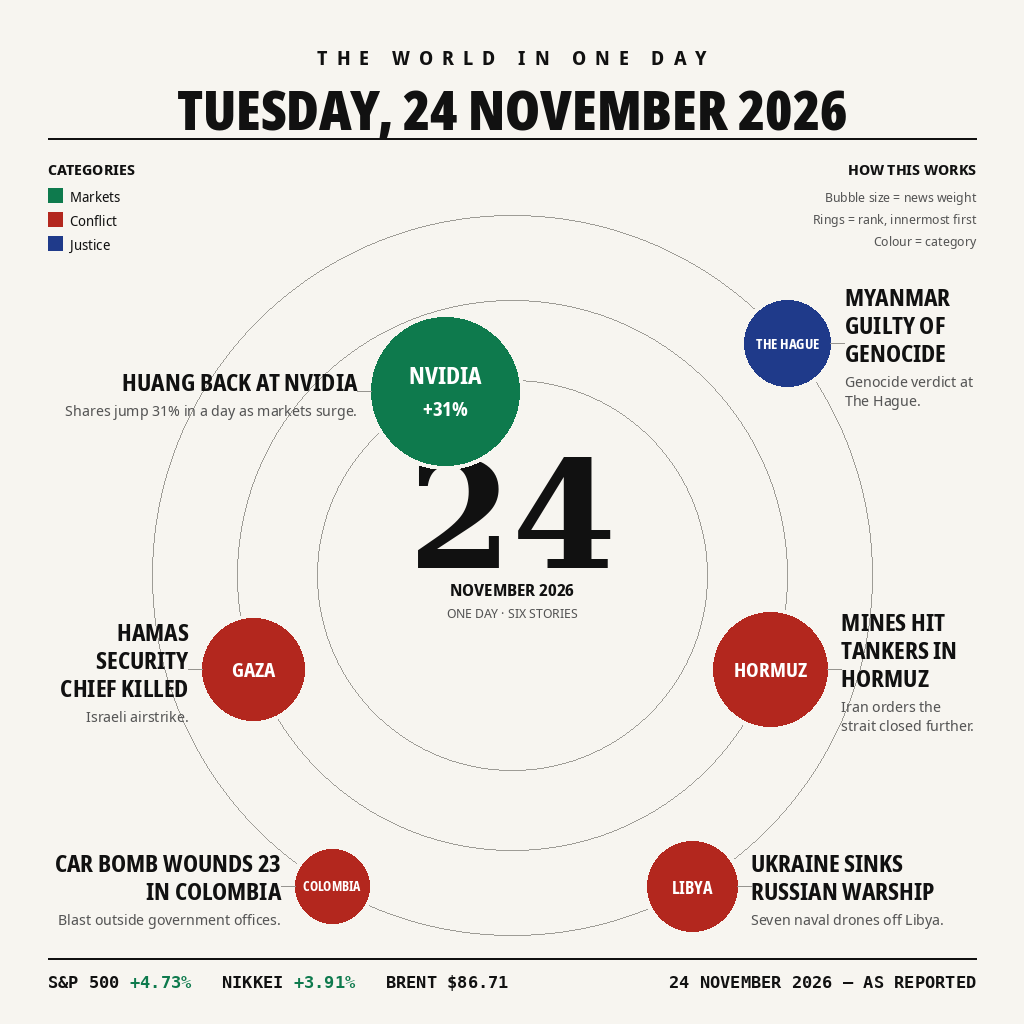
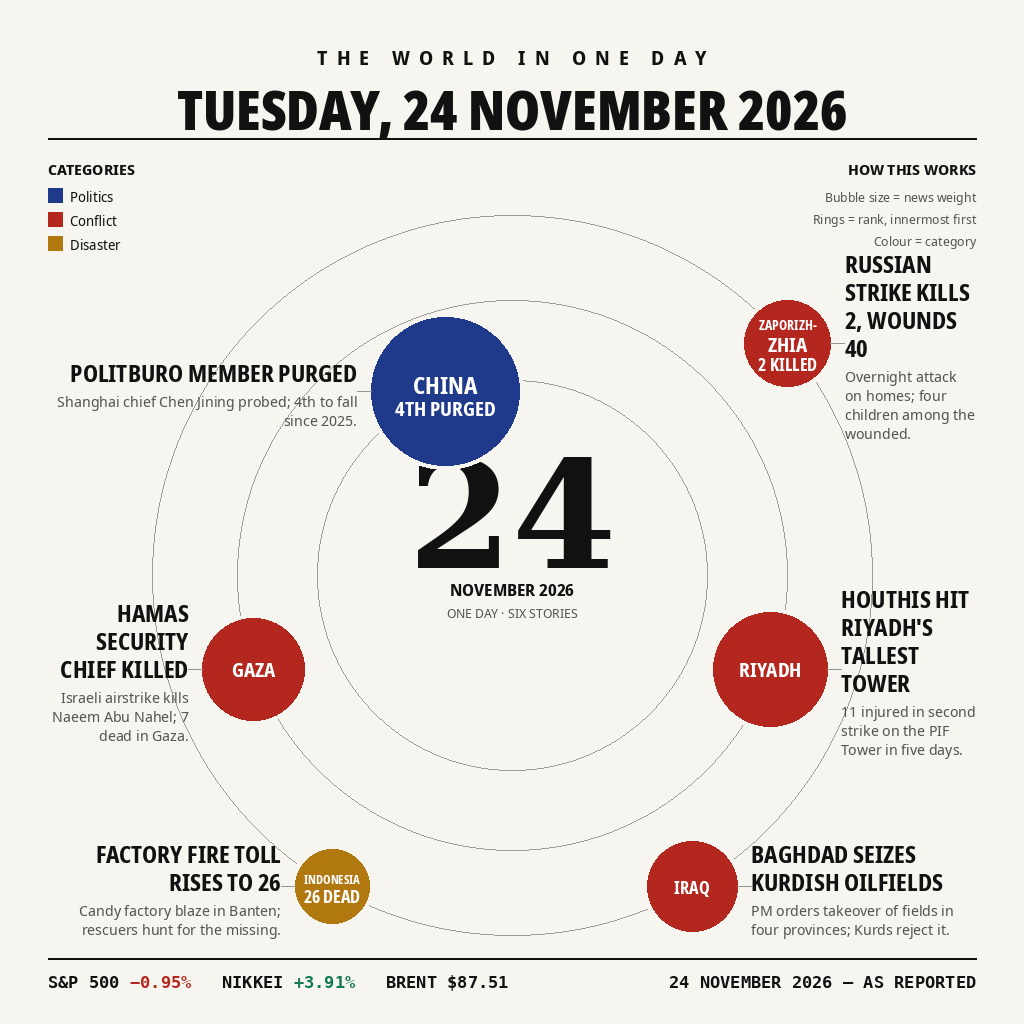
Replace entry.png and main.ts with corrected versions

diff --git a/main.ts b/main.ts
@@ -1,15 +1,17 @@
 // News-image entry for Tuesday 24 November 2026 (Node 22, standard library only).
 // The image beside this file is the entry: a front page summing up the day's world
-// news - Nvidia reinstates Huang as CEO (+31%), tankers hit mines in Hormuz, a
-// Hamas security chief killed in Gaza, Ukraine sinks a Russian corvette off Libya,
-// the ICJ finds Myanmar guilty of genocide, a factory fire kills 26 in Banten,
-// a car bomb wounds 23 in Colombia - with a markets strip below.
+// news - a Politburo member purged in China, Houthis hit Riyadh's tallest tower,
+// a Hamas security chief killed in Gaza, Baghdad seizes Kurdish oilfields,
+// a factory fire toll rises to 26 in Banten, a Russian strike kills 2 in
+// Zaporizhzhia - with a markets strip below.
 // The program copies the image to /output/entry.png, byte for byte, every run.
 //
 // Outside the grader's container, MAKEFUN_OUTPUT_DIR stands in for /output:
-//   mkdir -p out && MAKEFUN_OUTPUT_DIR=out node main.ts
+//   MAKEFUN_OUTPUT_DIR=out node main.ts
 
-import { copyFileSync } from 'node:fs';
+import { copyFileSync, mkdirSync } from 'node:fs';
 import { join } from 'node:path';
 
-copyFileSync(new URL('./entry.png', import.meta.url), join(process.env.MAKEFUN_OUTPUT_DIR ?? '/output', 'entry.png'));
+const outDir = process.env.MAKEFUN_OUTPUT_DIR ?? '/output';
+mkdirSync(outDir, { recursive: true });
+copyFileSync(new URL('./entry.png', import.meta.url), join(outDir, 'entry.png'));
